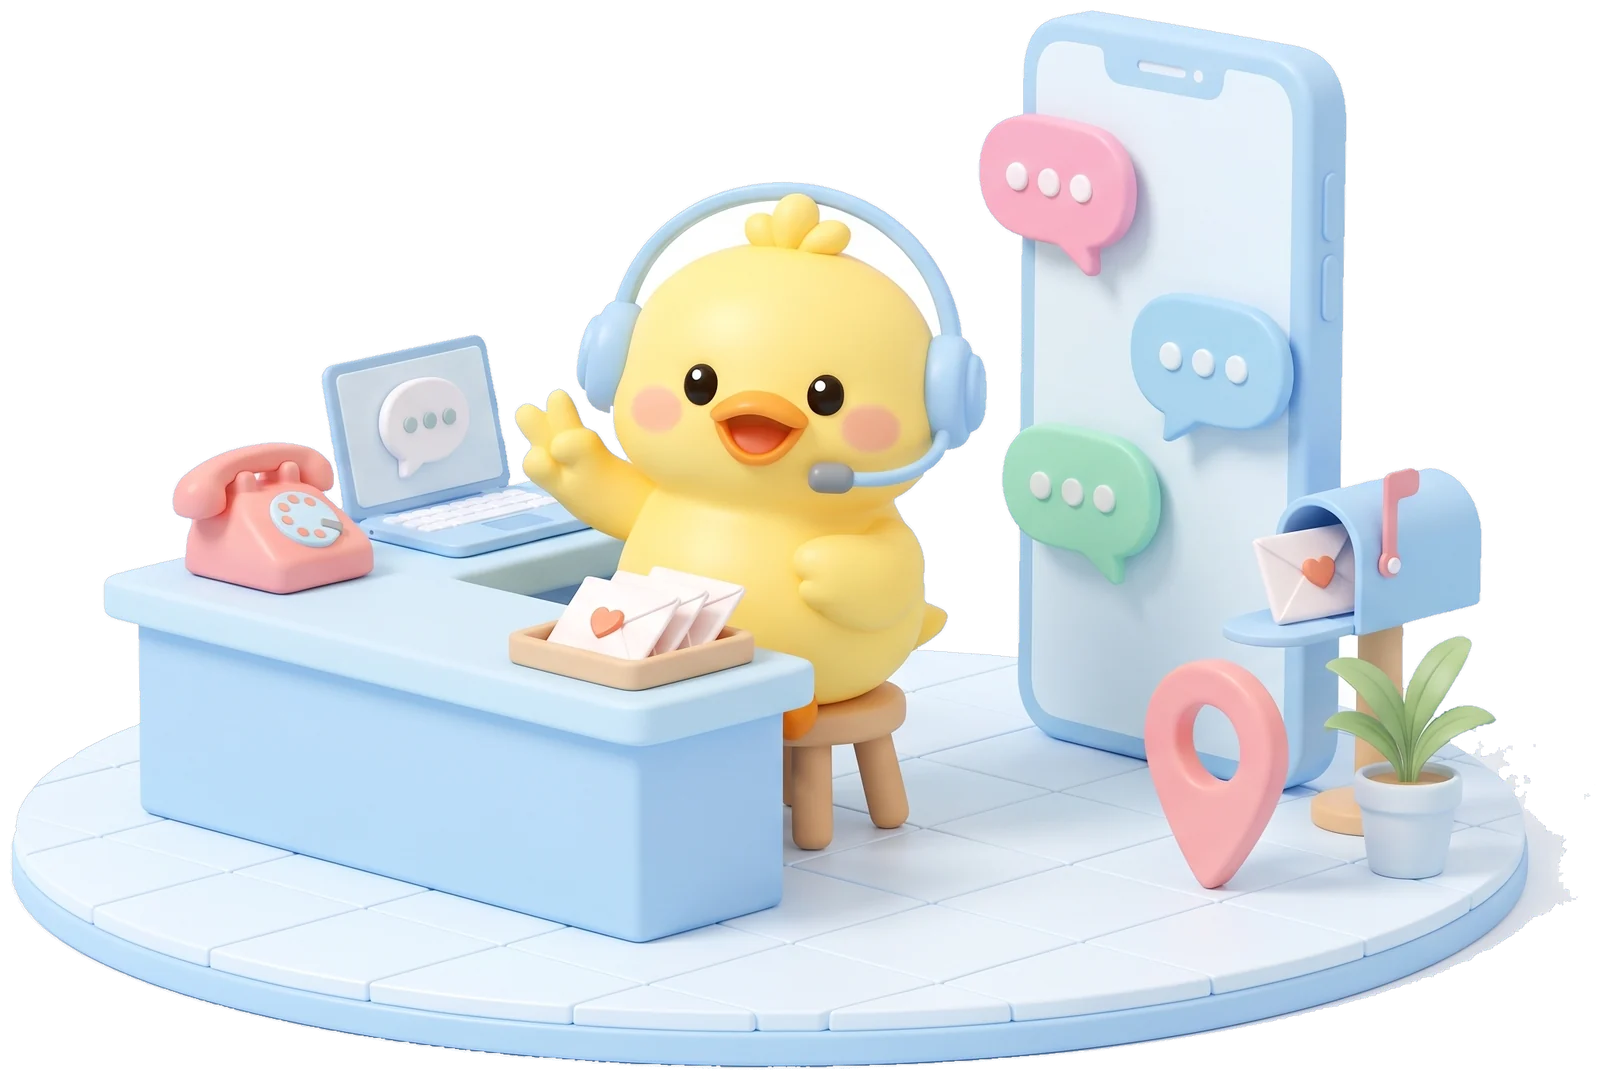
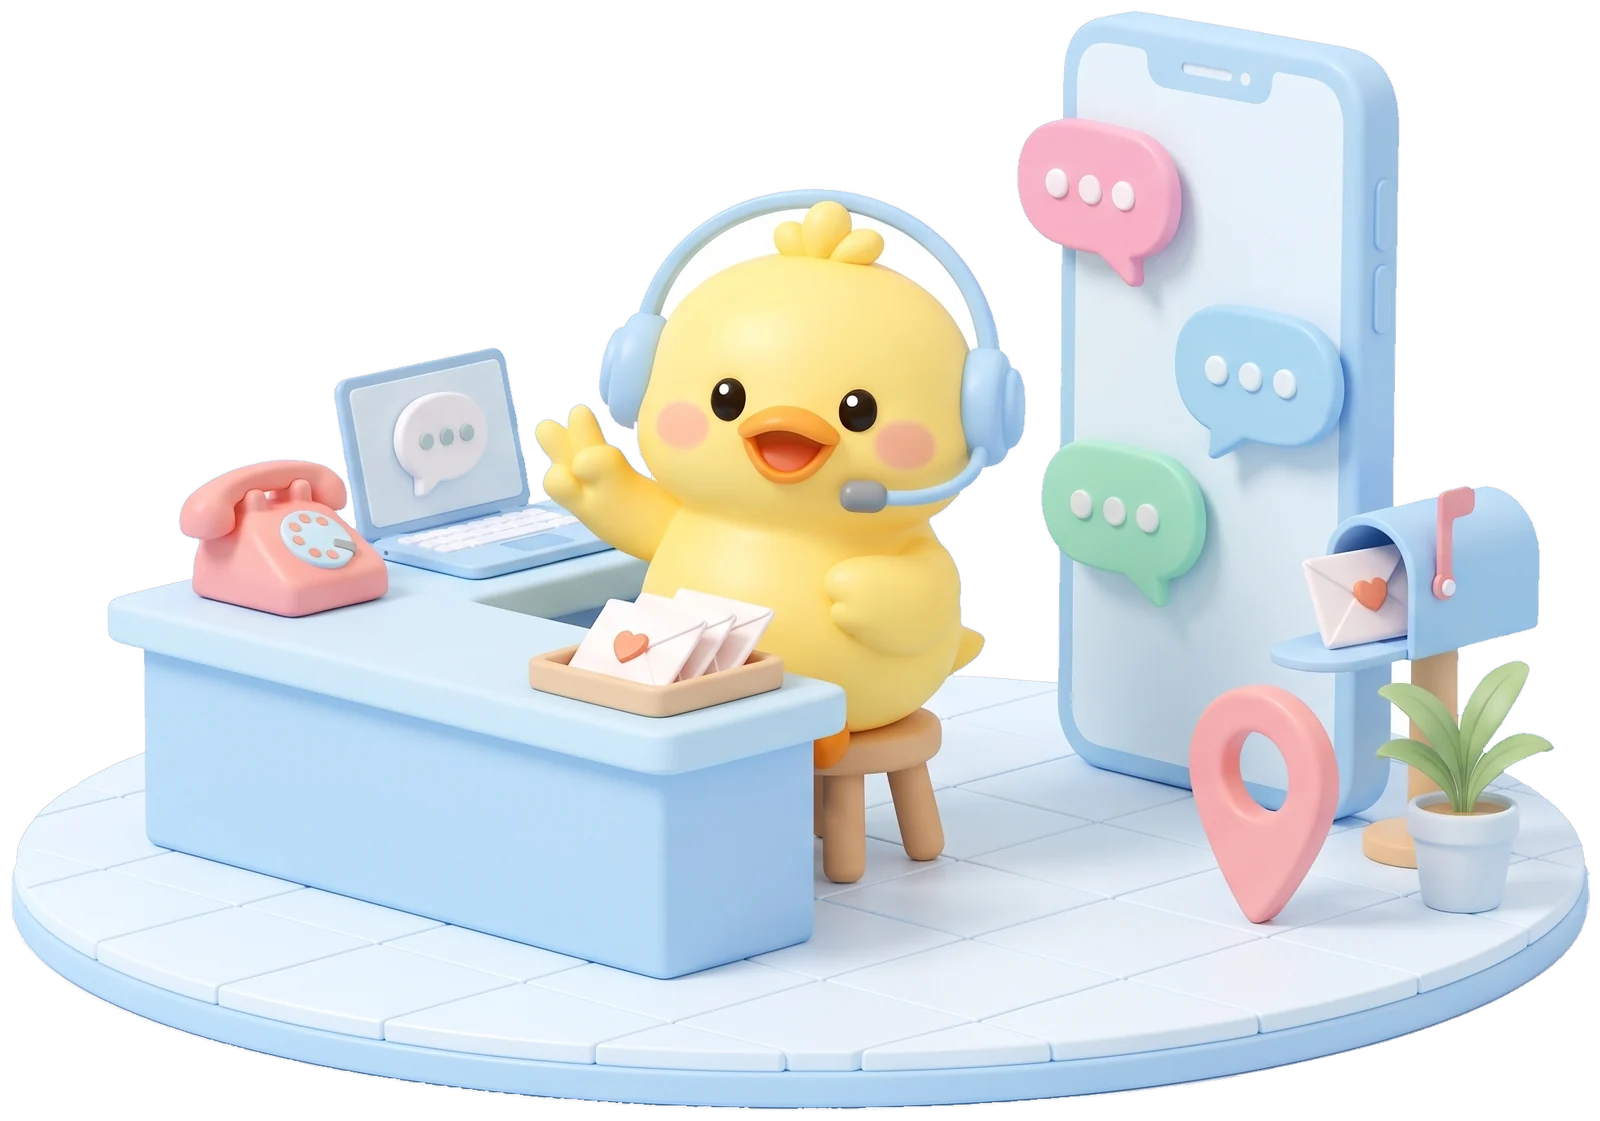
🦆🏝 หน้า /how-to-order + /dealer: ภาพเป็ดใหม่แบบ diorama บนแท่นกลม + /contact แก้เงาขอบขวาแท่น (เจ้าของร้านสั่ง 17 ต.ค. 69 "ภาพที่ 1 และ 2 ออกแบบให้ใหม่หน่อย" + "ภาพที่ 3 แก้ไขส่วนของเงาให้หน่อย"): 1) /how-to-order เดิม duck-hug ลอยโยก → public/how-to/hto-hero.webp เป็ดโบกมือข้างโต๊ะแล็ปท็อป (ไอคอนตะ

diff --git a/src/app/(shop)/dealer/page.tsx b/src/app/(shop)/dealer/page.tsx
@@ -22,6 +22,7 @@ import { LINE_URL } from "@/components/LineButton";
 import { hasCustomSender } from "@/lib/order-sender";
 import { cleanPhone, phoneProblem } from "@/lib/contact-validate";
 import type { OrderSender } from "@/lib/admin-data";
+import "./dlr-hero.css";
 
 type Me = { dealer: boolean; applied: boolean; application?: { shopName: string; channel: string; detail?: string } };
 
@@ -320,10 +321,14 @@ export default function DealerApplyPage() {
 
             {/* ฟองคำพูดต้องอยู่ในกรอบเดียวกับรูปเป็ด — ตำแหน่งจะได้อิงขอบรูปจริง ไม่ใช่ช่องตาราง */}
             <div className="dlr-hero-art">
-              <span className="dlr-duck">
+              {/* ฉาก diorama ร้านแผงลอยบนแท่นกลม (public/dealer/dealer-hero.webp พื้นใส · 17 ต.ค. 69 แทน duck-hug) — สไตล์ ./dlr-hero.css */}
+              <span className="dlr-duck dlr-scene">
                 <span className="dlr-bub dlr-b1">ราคาตัวแทน ตั้งแต่ชิ้นแรก 🐥</span>
                 <span className="dlr-bub dlr-b2">กล่องขึ้นชื่อร้านคุณ 📮</span>
-                <img src="/landing/duck-hug.webp" alt="" aria-hidden="true" />
+                <img
+                  src="/dealer/dealer-hero.webp"
+                  alt="น้องเป็ด iDucky ยืนหน้าร้านแผงลอย ถือกล่องพัสดุติดป้ายชื่อร้าน พร้อมแก้วมัค เสื้อ พวงกุญแจ และรถเข็นกล่อง"
+                />
               </span>
             </div>
           </div>

diff --git a/src/app/(shop)/how-to-order/hto-hero.css b/src/app/(shop)/how-to-order/hto-hero.css
@@ -1,0 +1,18 @@
+/* ภาพฮีโร่หน้าคู่มือลูกค้า (/how-to-order) — diorama บนแท่นกลม พื้นใส (public/how-to/hto-hero.webp)
+   17 ต.ค. 69 เจ้าของร้าน "ออกแบบให้ใหม่หน่อย" (เดิม duck-hug ลอยโยก) → ชุดเดียวกับหน้า /why /contact
+   ภาพตั้งนิ่ง ไม่โยก ไม่มีเงาเรือง · เงานุ่มวงรีใต้แท่น · แยกไฟล์ ไม่แตะ landing.css (.dl.hto-page = ชนะกฎเดิม) */
+.dl.hto-page .hto-hero{grid-template-columns:1fr 1fr}
+/* ป้าย kicker ชิดซ้ายตามหัวข้อ (หน้า /dealer /contact ทำแล้ว หน้านี้ขาด — เดิมลอยกลางคอลัมน์) */
+.dl.hto-page .hto-hero-txt .kicker-yolk{margin-inline:0}
+.dl.hto-page .hto-scene{position:relative;z-index:1;width:100%;max-width:600px}
+.dl.hto-page .hto-scene::after{content:"";position:absolute;left:6%;right:6%;bottom:0;height:12%;z-index:-1;border-radius:50%;
+  background:radial-gradient(ellipse at center,rgba(44,129,196,.22) 0%,rgba(44,129,196,.08) 45%,rgba(44,129,196,0) 72%);
+  filter:blur(6px)}
+.dl.hto-page .hto-hero-art .hto-scene img{width:100%;height:auto;display:block;filter:none;animation:none}
+.dl.hto-page .hto-hero-art .hto-b1{top:0;left:2%}
+@media(max-width:900px){
+  .dl.hto-page .hto-hero{grid-template-columns:1fr}
+  .dl.hto-page .hto-hero-txt .kicker-yolk{margin-inline:auto}
+  .dl.hto-page .hto-scene{width:min(100%,520px)}
+  .dl.hto-page .hto-hero-art .hto-scene img{width:100%}
+}

diff --git a/src/app/(shop)/dealer/dlr-hero.css b/src/app/(shop)/dealer/dlr-hero.css
@@ -1,0 +1,16 @@
+/* ภาพฮีโร่หน้าสมัครตัวแทน (/dealer) — diorama ร้านแผงลอยบนแท่นกลม พื้นใส (public/dealer/dealer-hero.webp)
+   17 ต.ค. 69 เจ้าของร้าน "ออกแบบให้ใหม่หน่อย" (เดิม duck-hug ลอยโยก) → ชุดเดียวกับหน้า /why /contact
+   ภาพตั้งนิ่ง ไม่โยก ไม่มีเงาเรือง · เงานุ่มวงรีใต้แท่น · แยกไฟล์ ไม่แตะ landing.css (.dl.dlr-page = ชนะกฎเดิม)
+   ฟองคำพูดยังเกาะกรอบ .dlr-duck เหมือนเดิม (ตำแหน่งอิงขอบรูป) */
+.dl.dlr-page .dlr-hero{grid-template-columns:1fr 1fr}
+.dl.dlr-page .dlr-duck.dlr-scene{width:min(100%,560px)}
+.dl.dlr-page .dlr-scene::after{content:"";position:absolute;left:12%;right:12%;bottom:0;height:11%;z-index:-1;border-radius:50%;
+  background:radial-gradient(ellipse at center,rgba(44,129,196,.22) 0%,rgba(44,129,196,.08) 45%,rgba(44,129,196,0) 72%);
+  filter:blur(6px)}
+.dl.dlr-page .dlr-scene img{position:relative;z-index:1;filter:none;animation:none}
+.dl.dlr-page .dlr-hero-art .dlr-b1{top:2%;right:auto;left:0}
+.dl.dlr-page .dlr-hero-art .dlr-b2{top:auto;bottom:6%;right:auto;left:-4%}
+@media(max-width:900px){
+  .dl.dlr-page .dlr-hero{grid-template-columns:1fr}
+  .dl.dlr-page .dlr-duck.dlr-scene{width:min(100%,480px)}
+}

diff --git a/src/app/(shop)/how-to-order/page.tsx b/src/app/(shop)/how-to-order/page.tsx
@@ -1,6 +1,7 @@
 import type { Metadata } from "next";
 import Link from "next/link";
 import FreeShipNote from "./FreeShipNote";
+import "./hto-hero.css";
 import PageOverride from "@/components/PageOverride";
 import { getArticleServer } from "@/lib/server/articles-server";
 
@@ -168,8 +169,14 @@ export default async function HowToOrderPage() {
             </div>
             <div className="hto-hero-art">
               <span className="hto-bub hto-b1">เลือก → แนบลาย → โอน 🐥</span>
-              {/* eslint-disable-next-line @next/next/no-img-element */}
-              <img src="/landing/duck-hug.webp" alt="" aria-hidden="true" />
+              {/* ฉาก diorama บนแท่นกลม (public/how-to/hto-hero.webp พื้นใส · 17 ต.ค. 69 แทน duck-hug) — สไตล์อยู่ ./hto-hero.css */}
+              <div className="hto-scene">
+                {/* eslint-disable-next-line @next/next/no-img-element */}
+                <img
+                  src="/how-to/hto-hero.webp"
+                  alt="น้องเป็ด iDucky ข้างโต๊ะแล็ปท็อปสั่งซื้อและแนบลาย เครื่องพิมพ์แก้วมัค กล่องพัสดุ และสกู๊ตเตอร์ส่งของ"
+                />
+              </div>
             </div>
           </div>
 
